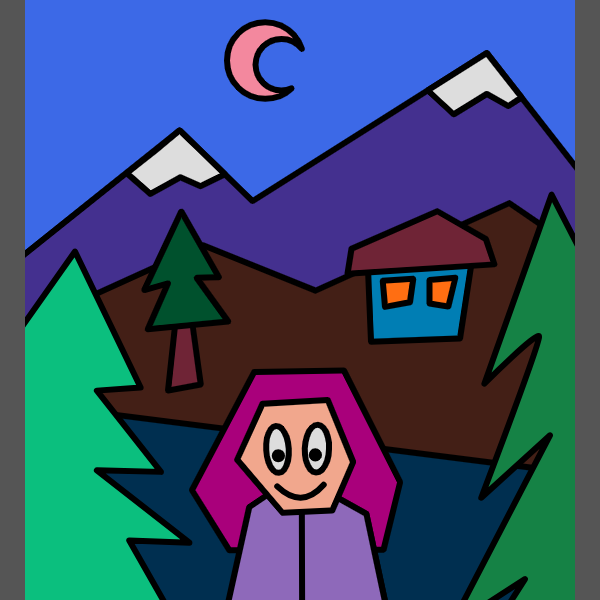
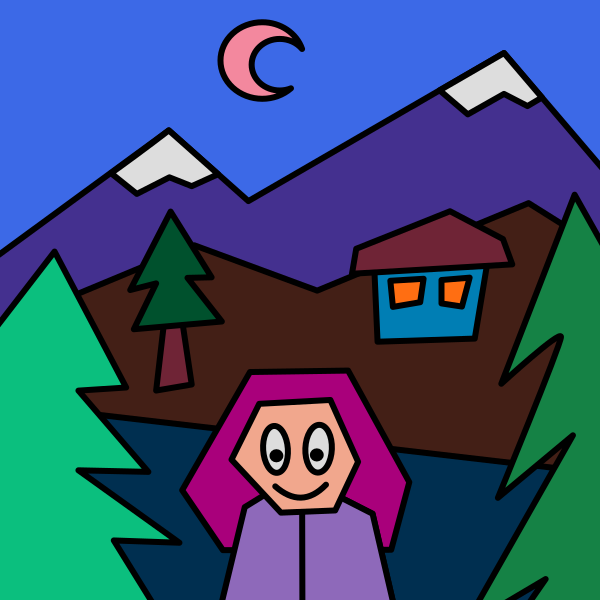
Add files via upload

diff --git a/8.html b/8.html
@@ -25,71 +25,95 @@
 </div>
 
 <div class="svg-container" id="svg">
-    <svg
-    width="1280"
-    height="600"
-    viewBox="0 0 1280 600"
-    version="1.1"
-    id="svg1"
-    xml:space="preserve"
-    xmlns="http://www.w3.org/2000/svg"
-    xmlns:svg="http://www.w3.org/2000/svg"><defs
-      id="defs1" /><g
-      id="layer1"
-      style="stroke-width:5;stroke-dasharray:none"><rect
-        style="display:none;fill:#dddddd;fill-opacity:1;stroke:#000000;stroke-width:5;stroke-linecap:round;stroke-linejoin:round;stroke-dasharray:none;stroke-opacity:1"
-        id="rect2"
-        width="195.04951"
-        height="195.04951"
-        x="-457.52499"
-        y="362.47525" /><rect
-        style="fill-opacity:1;stroke:none;stroke-width:0;stroke-dasharray:none"
-        id="rect1"
-        class="lightgray"
-        width="1280"
-        height="600"
-        x="0"
-        y="0" /><path
-        style="fill-opacity:1;stroke:#000000;stroke-width:2;stroke-linecap:round;stroke-linejoin:round;stroke-dasharray:none;stroke-opacity:1"
-        d="M -10.370863,300 901.87518,82.323121 1290.0276,300 1289.9565,621.23291 -9.9564581,620.45345 Z"
-        id="path1"
-        class="darkgray" /><path
-        id="path14" style="fill:#dddddd;fill-opacity:1;stroke:#000000;stroke-width:2;stroke-linecap:round;stroke-linejoin:round;stroke-dasharray:none;stroke-opacity:1"
-        d="m 901.875,82.322266 -177.20152,42.284084 40.08915,25.78431 58.33498,-15.17411 36.08027,33.04402 54.96384,-26.30008 37.14492,16.24252 7.36431,-17.59246 51.83925,2.62383 z" />
-        <path
-        id="path16"
-        class="whitegray"
-        style="fill-opacity:1;stroke:#000000;stroke-width:2;stroke-linecap:round;stroke-linejoin:round;stroke-dasharray:none"
-        d="m 335.12109,47.210938 a 104.3164,99 0 0 0 -81.37304,37.382812 84.729782,80.402122 0 0 0 -23.02735,-3.048828 84.729782,80.402122 0 0 0 -84.72851,80.402348 84.729782,80.402122 0 0 0 5.08593,26.85937 104.3164,99 0 0 0 -38.5371,76.62109 104.3164,99 0 0 0 104.3164,99 104.3164,99 0 0 0 91.26172,-51.57031 104.3164,99 0 0 0 77.07227,32.49414 104.3164,99 0 0 0 104.3164,-99 104.3164,99 0 0 0 -51.3164,-85.2539 104.3164,99 0 0 0 1.24609,-14.88672 104.3164,99 0 0 0 -104.31641,-99.000002 z" /><path
-        style="fill-opacity:1;stroke:#000000;stroke-width:2;stroke-linecap:round;stroke-linejoin:round;stroke-dasharray:none"
-        d="m 255.82896,453.18102 46.59976,26.57774 107.91852,-35.20974 -62.58697,-18.75128 -13.31463,-80.81316 29.90629,-60.4425 42.06298,-13.43964 -29.59244,-8.49141 -32.75585,7.58096 -21.14913,39.00155 -12.8686,-38.87783 -29.18261,-8.61697 -13.30357,1.5037 23.87261,27.14694 -2.60079,49.52609 -25.61001,-49.09744 -38.87639,-12.94622 -30.62913,1.28523 40.46184,21.33488 21.78236,21.10402 34.28031,64.23599 -4.20555,43.71152 z"
-        id="path15" class="blackgray" /><g
-        id="g12"
-        class="monk paused"
-        ><path
-          id="path18"
-          class="colorize"
-          style="display:inline;fill:#dddddd;fill-opacity:1;stroke:#000000;stroke-width:2;stroke-linecap:round;stroke-linejoin:round;stroke-dasharray:none"
-          d="m 639.48047,372.67188 c -10.89353,-10e-6 -19.77281,10.83992 -20.22656,24.42382 l -5.13282,-0.88867 c 0.6246,5.39401 1.60037,11.51031 7.5625,14.94922 2.17139,5.66408 5.64629,10.54484 9.85157,13.36719 -0.14164,2.91552 -0.36863,5.75297 -0.63868,8.71094 -0.25568,2.65947 -22.39891,4.68257 -32.1582,11.77148 -5.44332,3.95389 -14.8125,59.99805 -14.8125,59.99805 -9.30857,-1.74533 -18.44792,-4.19974 -27.58789,-6.97266 l 0.16797,-6.85742 -12.875,-7.39063 1.63281,6.64649 -13.45703,-2.35547 0.14063,9.06055 c 3.33152,1.60089 6.64434,3.19699 20.50585,7.86914 12.79131,7.39869 24.64899,10.80057 37.32227,13.58984 3.72624,0.82011 7.93642,-0.66241 9.16992,-5.15625 3.82325,-13.9286 8.57742,-30.9054 9.38672,-47.29883 l 5.18359,27.51953 53.50196,-37.89453 c 2.78137,22.68981 8.0275,42.25841 13.02539,58.77344 1.15902,3.82985 4.97321,6.33473 8.87891,5.46484 11.07415,-2.4665 25.67076,-7.4732 36.87304,-15.23633 l 20.02735,-7.39257 v -9.77539 l -12.89063,2.45507 2.02148,-6.1289 -12.73632,6.53515 -0.83399,8.22657 c -9.81436,2.76234 -14.70718,4.97956 -27.0625,6.79492 0,0 -9.46862,-57.21387 -14.61914,-61.07227 -9.13006,-6.83959 -32.28334,-8.20016 -32.71484,-10.99023 -0.26449,-2.62601 -0.26044,-5.59866 -0.13867,-8.52735 4.35738,-2.68554 7.97765,-7.57248 10.25976,-13.31054 5.32324,-3.31395 7.05655,-8.70052 6.98828,-15.05078 l -4.38281,0.7207 c -0.39153,-13.65583 -9.2978,-24.57812 -20.23242,-24.57812 z" /><path
-          id="path6"
-          style="display:inline;fill:none;fill-opacity:1;stroke:#000000;stroke-width:2;stroke-linecap:round;stroke-linejoin:round;stroke-dasharray:none"
-          d="m 631.53516,424.52344 c -0.14164,2.91552 -0.36863,5.75297 -0.63868,8.71094 -0.25568,2.65947 -22.39891,4.68257 -32.1582,11.77148 -5.44332,3.95389 -14.8125,59.99805 -14.8125,59.99805 -9.30857,-1.74533 -18.44792,-4.19974 -27.58789,-6.97266 l 0.16797,-6.85742 -12.875,-7.39063 1.63281,6.64649 -13.45703,-2.35547 0.14063,9.06055 c 3.33152,1.60089 6.64434,3.19699 20.50585,7.86914 12.79131,7.39869 24.64899,10.80057 37.32227,13.58984 3.72624,0.82011 7.93642,-0.66241 9.16992,-5.15625 3.82325,-13.9286 8.57742,-30.9054 9.38672,-47.29883 l 5.18359,27.51953 53.50196,-37.89453 c 2.78137,22.68981 8.0275,42.25841 13.02539,58.77344 1.15902,3.82985 4.97321,6.33473 8.87891,5.46484 11.07415,-2.4665 25.67076,-7.4732 36.87304,-15.23633 l 20.02735,-7.39257 v -9.77539 l -12.89063,2.45507 2.02148,-6.1289 -12.73632,6.53515 -0.83399,8.22657 c -9.81436,2.76234 -14.70718,4.97956 -27.0625,6.79492 0,0 -9.46862,-57.21387 -14.61914,-61.07227 -9.13006,-6.83959 -32.28334,-8.20016 -32.71484,-10.99023 -0.26449,-2.62601 -0.26044,-5.59866 -0.13867,-8.52735 -2.28375,1.40752 -4.76726,2.2168 -7.36719,2.2168 -2.82123,0 -5.50513,-0.94627 -7.94531,-2.58398 z" /><path
-          id="path8"
-          style="display:inline;fill:none;fill-opacity:1;stroke:#000000;stroke-width:2;stroke-linecap:round;stroke-linejoin:round;stroke-dasharray:none"
-          d="m 614.12109,396.20703 c 0.6246,5.39401 1.60037,11.51031 7.5625,14.94922 -1.56338,-4.07809 -2.45312,-8.56043 -2.45312,-12.9707 0,-0.36563 0.0113,-0.72797 0.0234,-1.08985 z m 49.97461,0.32227 -4.38281,0.7207 c 0.009,0.31111 0.0176,0.62169 0.0176,0.93555 0,4.56472 -0.95625,9.20359 -2.62305,13.39453 5.32324,-3.31395 7.05655,-8.70052 6.98828,-15.05078 z" /><path
-          id="path7"
-          style="display:inline;fill:none;fill-opacity:1;stroke:#000000;stroke-width:2;stroke-linecap:round;stroke-linejoin:round"
-          d="m 659.73082,398.18532 c 0,14.09016 -9.06622,28.92239 -20.24998,28.92239 -11.18375,-10e-6 -20.24997,-14.83224 -20.24997,-28.92239 0,-14.09015 9.06622,-25.51247 20.24997,-25.51247 11.18375,0 20.24998,11.42232 20.24998,25.51247 z" /><path
-          id="path4"
-          class="gray"
-          style="display:inline;fill-opacity:1;stroke:none;stroke-width:2;stroke-dasharray:none"
-          d="m 655.67975,431.78175 c -13.39898,22.62054 -25.57468,42.76037 -46.49342,53.47461 3.35201,12.4284 3.21375,23.27981 4.33711,33.92528 -5.96513,-0.90956 -11.30504,-2.01606 -15.91797,-3.06445 -1.86882,2.37358 -4.98529,3.10267 -7.83008,2.47656 -5.45703,-1.20104 -10.76216,-2.53969 -16.05664,-4.23828 -4.85906,2.14389 -9.3,5.84101 -10.98437,10.4668 -3.59129,9.86022 5.49111,18.76482 15.35156,22.35546 37.83976,13.78003 79.49539,14.19797 121.58008,0.17188 9.95521,-3.31793 17.33573,-12.07807 14.01757,-22.0332 -1.44862,-4.34656 -4.69932,-7.81896 -8.72851,-10.07813 -5.63087,2.0784 -11.17425,3.68145 -16.0332,4.76367 -3.56642,0.79433 -7.03241,-1.23909 -8.49415,-4.51172 -6.30613,1.76714 -12.42437,3.03708 -18.33789,3.9336 1.16119,-26.07569 6.41852,-55.00481 18.1926,-79.15089 z" /><path
-          id="path10"
-          style="display:inline;fill:none;fill-opacity:1;stroke:#000000;stroke-width:2;stroke-dasharray:none"
-          d="m 662.08984,519.42383 c 1.16119,-26.07569 6.41852,-55.00481 18.1926,-79.15089 l -24.60269,-8.49119 c -13.39898,22.62054 -25.57468,42.76037 -46.49342,53.47461 3.35201,12.4284 3.21375,23.27981 4.33711,33.92528" /><path
-          id="path9"
-          style="color:#000000;display:inline;fill:none;fill-opacity:1;stroke:#000000;stroke-width:2;stroke-linecap:round;stroke-linejoin:round;stroke-dasharray:none"
-          d="m 573.71875,514.35547 c -4.85906,2.14389 -9.29999,5.84101 -10.98437,10.4668 -3.59129,9.86023 5.4911,18.76481 15.35156,22.35546 37.8398,13.78004 79.49535,14.19798 121.58008,0.17188 9.95522,-3.31793 17.33573,-12.07806 14.01757,-22.0332 -1.44863,-4.34656 -4.69931,-7.81896 -8.72851,-10.07813 -5.63087,2.0784 -11.17424,3.68145 -16.0332,4.76367 -3.56642,0.79433 -7.03241,-1.23909 -8.49415,-4.51172 -35.07459,9.82879 -64.59101,4.77043 -82.82226,0.62696 -1.86882,2.37358 -4.98529,3.10267 -7.83008,2.47656 -5.45704,-1.20104 -10.76215,-2.53969 -16.05664,-4.23828 z" /></g></g></svg>
+<svg
+   width="1280"
+   height="600"
+   viewBox="0 0 1280 600"
+   version="1.1"
+   id="svg1"
+   xml:space="preserve"
+   xmlns="http://www.w3.org/2000/svg"
+   xmlns:svg="http://www.w3.org/2000/svg"><defs
+     id="defs1" /><g
+     id="layer2"
+     style="display:inline"><rect
+       style="fill:#aaaaaa;fill-opacity:1;stroke:none;stroke-width:0;stroke-dasharray:none"
+       id="rect1"
+       class="lightgray"
+       width="1280"
+       height="600"
+       x="0"
+       y="0" /><path
+       id="path24"
+       class="whitegray"
+       style="fill:#cbcbcb;fill-opacity:1;stroke:#000000;stroke-width:2;stroke-linecap:round;stroke-linejoin:round;stroke-dasharray:none"
+       d="m 148.45508,47.011719 c -8.25577,-0.05249 -15.89906,5.107554 -18.27344,18.287109 -8.06773,-4.724494 -15.21153,-5.434754 -19.78125,5.025391 -8.5942,-0.229893 -10.16987,3.50347 -8.24219,9.214843 -4.843174,2.047689 -3.235407,4.094893 -3.624997,6.142579 -6.509286,0.963708 -9.591663,5.799805 -12.199219,11.169921 H 191.16992 c 2.69331,-4.43621 3.2284,-8.677398 -6.26367,-12.007812 12.97699,-11.301501 7.6894,-29.283868 -14.50586,-24.851562 -4.82226,-7.664208 -13.68954,-12.927981 -21.94531,-12.980469 z m 630,0 c -8.25577,-0.05249 -15.90101,5.107554 -18.27539,18.287109 -8.06773,-4.724494 -15.20958,-5.434754 -19.7793,5.025391 -8.5942,-0.229893 -10.16987,3.50347 -8.24219,9.214843 -4.84317,2.047689 -3.23736,4.094893 -3.62695,6.142579 -6.50928,0.963708 -9.58971,5.799805 -12.19727,11.169921 h 104.83594 c 2.69331,-4.43621 3.2284,-8.677398 -6.26367,-12.007812 12.97699,-11.301501 7.6894,-29.283868 -14.50586,-24.851562 -4.82226,-7.664208 -13.68954,-12.927981 -21.94531,-12.980469 z m -434.66602,2.361328 c -18.41265,-0.02675 -32.94344,11.749477 -41.09765,27.611328 -5.9389,-0.615986 -11.93303,-3.047255 -16.48438,7.888672 -22.7629,-1.418213 -28.37131,10.462954 -37.75586,19.724613 -20.64561,-16.413826 -31.74733,-4.991103 -40.41601,11.26953 -10.87721,-3.4957 -21.90742,-3.36476 -21.80274,16.90625 h 207.39453 c -0.72173,-9.14699 -2.62172,-17.62908 -13.82617,-20.85156 17.99471,-24.236704 4.99997,-47.828408 -12.76367,-56.634771 -8.24492,-4.087439 -16.04309,-5.903594 -23.24805,-5.914062 z m 629.99805,0 c -18.41265,-0.02675 -32.94149,11.749477 -41.0957,27.611328 -5.9389,-0.615986 -11.93303,-3.047255 -16.48438,7.888672 -22.7629,-1.418213 -28.37326,10.462954 -37.75781,19.724613 -20.64561,-16.413826 -31.74538,-4.991103 -40.41406,11.26953 -10.87721,-3.4957 -21.90937,-3.36476 -21.80469,16.90625 H 1023.627 c -0.7218,-9.14699 -2.6218,-17.62908 -13.8262,-20.85156 17.9947,-24.236704 4.9999,-47.828408 -12.76369,-56.634771 -8.24492,-4.087439 -16.04505,-5.903594 -23.25,-5.914062 z" /><path
+       id="path11"
+       class="darkgray"
+       style="fill:#555555;fill-opacity:1;stroke:#000000;stroke-width:2;stroke-linecap:round;stroke-linejoin:round;stroke-dasharray:none"
+       d="M 494.62695,113.87891 -5.9160156,346.50586 -8.8046875,621.7793 638.24023,617.42969 l -0.0449,4.34961 677.66597,-4.55469 4.5547,-353.02539 -178.789,-150.32031 -469.08401,218.00586 0.87305,-67.68555 z" /><path
+       id="path12"
+       style="display:inline;fill:#dddddd;fill-opacity:1;stroke:#000000;stroke-width:2;stroke-linecap:round;stroke-linejoin:round;stroke-dasharray:none"
+       d="m 494.62695,113.87891 -70.10351,32.58007 19.90039,29.89649 43.5,-23.94531 29.11523,20.60546 10.97461,-10.83398 16.1211,4.88672 4.31445,-7.9375 z m 647.00005,0 -70.1036,32.58007 19.9004,29.89649 43.5,-23.94531 29.1153,20.60546 10.9746,-10.83398 16.1211,4.88672 4.3144,-7.9375 z" /><path
+       id="path5"
+       class="darkergray"
+       style="fill:#343434;fill-opacity:1;stroke:#000000;stroke-width:2;stroke-linecap:round;stroke-linejoin:round;stroke-dasharray:none"
+       d="M 530.25391,395.43555 -4.0136719,461.83984 -4.3320312,609.33398 630.375,611.72656 630.5918,431.04883 Z m 659.99999,0 -534.26757,66.40429 -0.31836,147.49414 634.70703,2.39258 0.2168,-180.67773 z" /><path
+       id="path16"
+       class="lightergray"
+       style="fill:#dddddd;fill-opacity:1;stroke:#000000;stroke-width:2;stroke-linecap:round;stroke-linejoin:round;stroke-dasharray:none"
+       d="m 211.31836,164.50586 a 85.660639,81.307021 0 0 0 -66.82031,30.70312 69.576857,66.032899 0 0 0 -18.91016,-2.50586 69.576857,66.032899 0 0 0 -69.574218,66.03321 69.576857,66.032899 0 0 0 4.175781,22.06055 85.660639,81.307021 0 0 0 -31.646484,62.92773 85.660639,81.307021 0 0 0 85.662111,81.30664 85.660639,81.307021 0 0 0 74.93945,-42.35352 85.660639,81.307021 0 0 0 63.28906,26.68555 85.660639,81.307021 0 0 0 85.66016,-81.30664 85.660639,81.307021 0 0 0 -42.13867,-70.01758 85.660639,81.307021 0 0 0 1.02344,-12.22656 85.660639,81.307021 0 0 0 -85.66016,-81.30664 z m 671.99805,0 a 85.660639,81.307021 0 0 0 -66.82032,30.70312 69.576857,66.032899 0 0 0 -18.9082,-2.50586 69.576857,66.032899 0 0 0 -69.57617,66.03321 69.576857,66.032899 0 0 0 4.17578,22.06055 85.660639,81.307021 0 0 0 -31.64453,62.92773 85.660639,81.307021 0 0 0 85.66015,81.30664 85.660639,81.307021 0 0 0 74.94141,-42.35352 85.660639,81.307021 0 0 0 63.28906,26.68555 85.660639,81.307021 0 0 0 85.66021,-81.30664 85.660639,81.307021 0 0 0 -42.13872,-70.01758 85.660639,81.307021 0 0 0 1.02344,-12.22656 85.660639,81.307021 0 0 0 -85.66211,-81.30664 z" /><path
+       id="path15"
+       class="blackgray"
+       style="fill:#222222;fill-opacity:1;stroke:#000000;stroke-width:2;stroke-linecap:round;stroke-linejoin:round;stroke-dasharray:none"
+       d="m 162.76562,330.66211 -10.92382,1.10156 23.60351,28.83594 -2.13672,36.31836 -21.02929,-36.00391 -31.92383,-9.49218 -25.150392,0.9414 33.224612,15.64649 17.88672,15.47461 28.15039,47.10546 -3.45313,32.05469 -24.80664,17.36328 38.26563,19.49024 88.61914,-25.82032 -51.39453,-13.75 -10.9336,-59.26171 24.5586,-44.32422 34.53906,-9.85547 -24.29883,-6.22656 -26.89844,5.55859 -17.36718,28.60156 -10.56641,-32.08203 z m 672,0 -10.92578,1.10156 23.60352,28.83594 -2.13477,36.31836 -21.02929,-36.00391 -31.92383,-9.49218 -25.15235,0.9414 33.22657,15.64649 17.88672,15.47461 28.14843,47.10546 -3.45312,32.05469 -24.80664,17.36328 38.26562,19.49024 88.61914,-25.82032 -51.39453,-13.75 -10.93359,-59.26171 24.55859,-44.32422 34.54102,-9.85547 -24.30078,-6.22656 -26.89844,5.55859 -17.36523,28.60156 -10.56836,-32.08203 z" /><g
+       id="g47"
+       class="monk paused"
+       style="display:inline"><path
+         id="path44"
+         class="colorize"
+         style="display:inline;fill:#dddddd;fill-opacity:1;stroke:#000000;stroke-width:2;stroke-linecap:round;stroke-linejoin:round;stroke-dasharray:none"
+         d="m 464.76758,389.66797 c -10.89349,0 -19.77276,10.83799 -20.22656,24.42187 l -5.13282,-0.88867 c 0.6246,5.39401 1.60031,11.51031 7.5625,14.94922 2.1714,5.66407 5.64627,10.54484 9.85157,13.36719 v 0.002 c -0.1416,2.91483 -0.36878,5.75168 -0.63868,8.70899 -0.2557,2.65945 -22.39901,4.68259 -32.1582,11.77148 -5.44339,3.95389 -14.8125,59.99805 -14.8125,59.99805 -9.30859,-1.74533 -18.448,-4.19974 -27.58789,-6.97266 l 0.16797,-6.85742 -12.875,-7.39063 1.63281,6.64649 -13.45703,-2.35547 0.14063,9.06055 c 3.33159,1.60087 6.64437,3.19699 20.50585,7.86914 12.79129,7.39867 24.64898,10.80057 37.32227,13.58984 3.7262,0.82011 7.93642,-0.66241 9.16992,-5.15625 3.8232,-13.92858 8.57742,-30.90542 9.38672,-47.29883 l 5.18359,27.51953 53.50196,-37.89453 c 2.78129,22.68977 8.02759,42.25845 13.02539,58.77344 1.1591,3.82985 4.97311,6.33473 8.8789,5.46484 11.07409,-2.46648 25.67076,-7.47321 36.87305,-15.23632 l 20.02735,-7.39258 v -9.77539 l -12.89063,2.45508 2.02148,-6.12891 -12.73632,6.53515 -0.83399,8.22657 c -9.81439,2.76232 -14.70721,4.97956 -27.0625,6.79492 0,0 -9.46854,-57.21387 -14.61914,-61.07227 -9.12999,-6.83957 -32.28334,-8.20016 -32.71484,-10.99023 -0.2645,-2.62601 -0.26037,-5.59867 -0.13867,-8.52734 4.35709,-2.68561 7.97776,-7.57272 10.25976,-13.31055 5.3233,-3.31395 7.05658,-8.70054 6.98828,-15.05078 L 485,414.24414 c -0.3915,-13.65582 -9.29773,-24.57617 -20.23242,-24.57617 z m 680.00002,0 c -10.8935,0 -19.7728,10.83799 -20.2266,24.42187 l -5.1328,-0.88867 c 0.6246,5.39401 1.6003,11.51031 7.5625,14.94922 2.1714,5.66407 5.6463,10.54484 9.8516,13.36719 v 0.002 c -0.1416,2.91483 -0.3688,5.75168 -0.6387,8.70899 -0.2557,2.65945 -22.399,4.68259 -32.1582,11.77148 -5.4434,3.95389 -14.8125,59.99805 -14.8125,59.99805 -9.3086,-1.74533 -18.448,-4.19974 -27.5879,-6.97266 l 0.168,-6.85742 -12.875,-7.39063 1.6328,6.64649 -13.457,-2.35547 0.1406,9.06055 c 3.3316,1.60087 6.6443,3.19699 20.5058,7.86914 12.7913,7.39867 24.649,10.80057 37.3223,13.58984 3.7262,0.82011 7.9364,-0.66241 9.1699,-5.15625 3.8232,-13.92858 8.5774,-30.90542 9.3867,-47.29883 l 5.1836,27.51953 53.502,-37.89453 c 2.7813,22.68977 8.0276,42.25845 13.0254,58.77344 1.1591,3.82985 4.9731,6.33473 8.8789,5.46484 11.0741,-2.46648 25.6707,-7.47321 36.873,-15.23632 l 20.0274,-7.39258 v -9.77539 l -12.8906,2.45508 2.0214,-6.12891 -12.7363,6.53515 -0.834,8.22657 c -9.8144,2.76232 -14.7072,4.97956 -27.0625,6.79492 0,0 -9.4685,-57.21387 -14.6191,-61.07227 -9.13,-6.83957 -32.2834,-8.20016 -32.7149,-10.99023 -0.2645,-2.62601 -0.2603,-5.59867 -0.1386,-8.52734 4.3571,-2.68561 7.9777,-7.57272 10.2597,-13.31055 5.3233,-3.31395 7.0566,-8.70054 6.9883,-15.05078 l -4.3828,0.7207 c -0.3915,-13.65582 -9.2977,-24.57617 -20.2324,-24.57617 z" /><path
+         id="path30"
+         style="display:inline;fill:none;fill-opacity:1;stroke:#000000;stroke-width:2;stroke-linecap:round;stroke-linejoin:round;stroke-dasharray:none"
+         d="m 1165.0181,415.17959 c 0,14.09016 -9.0662,28.92239 -20.25,28.92239 -11.1837,-1e-5 -20.25,-14.83224 -20.25,-28.92239 0,-14.09015 9.0663,-25.51247 20.25,-25.51247 11.1838,0 20.25,11.42232 20.25,25.51247 z" /><path
+         id="path29"
+         style="display:inline;fill:none;fill-opacity:1;stroke:#000000;stroke-width:2;stroke-linecap:round;stroke-linejoin:round;stroke-dasharray:none"
+         d="m 1119.4084,413.2013 c 0.6246,5.39401 1.6003,11.51031 7.5625,14.94922 -1.5634,-4.07809 -2.4532,-8.56043 -2.4532,-12.9707 0,-0.36563 0.011,-0.72797 0.023,-1.08985 z m 49.9746,0.32227 -4.3828,0.7207 c 0.01,0.31111 0.018,0.62169 0.018,0.93555 0,4.56472 -0.9563,9.20359 -2.6231,13.39453 5.3233,-3.31395 7.0566,-8.70052 6.9883,-15.05078 z" /><path
+         id="path28"
+         style="display:inline;fill:none;fill-opacity:1;stroke:#000000;stroke-width:2;stroke-linecap:round;stroke-linejoin:round;stroke-dasharray:none"
+         d="m 1136.8224,441.51771 c -0.1416,2.91552 -0.3686,5.75297 -0.6386,8.71094 -0.2557,2.65947 -22.399,4.68257 -32.1582,11.77148 -5.4434,3.95389 -14.8125,59.99805 -14.8125,59.99805 -9.3086,-1.74533 -18.448,-4.19974 -27.5879,-6.97266 l 0.1679,-6.85742 -12.875,-7.39063 1.6328,6.64649 -13.457,-2.35547 0.1406,9.06055 c 3.3316,1.60089 6.6444,3.19699 20.5059,7.86914 12.7913,7.39869 24.649,10.80057 37.3223,13.58984 3.7262,0.82011 7.9364,-0.66241 9.1699,-5.15625 3.8232,-13.9286 8.5774,-30.9054 9.3867,-47.29883 l 5.1836,27.51953 53.502,-37.89453 c 2.7813,22.68981 8.0275,42.25841 13.0253,58.77344 1.1591,3.82985 4.9732,6.33473 8.879,5.46484 11.0741,-2.4665 25.6707,-7.4732 36.873,-15.23633 l 20.0273,-7.39257 v -9.77539 l -12.8906,2.45507 2.0215,-6.1289 -12.7363,6.53515 -0.834,8.22657 c -9.8144,2.76234 -14.7072,4.97956 -27.0625,6.79492 0,0 -9.4686,-57.21387 -14.6192,-61.07227 -9.13,-6.83959 -32.2833,-8.20016 -32.7148,-10.99023 -0.2645,-2.62601 -0.2604,-5.59866 -0.1387,-8.52735 -2.2837,1.40752 -4.7672,2.2168 -7.3672,2.2168 -2.8212,0 -5.5051,-0.94627 -7.9453,-2.58398 z" /><path
+         id="path7"
+         style="display:inline;fill:none;fill-opacity:1;stroke:#000000;stroke-width:2;stroke-linecap:round;stroke-linejoin:round;stroke-dasharray:none"
+         d="m 485.01818,415.17959 c 0,14.09016 -9.06622,28.92239 -20.24998,28.92239 -11.18375,-1e-5 -20.24997,-14.83224 -20.24997,-28.92239 0,-14.09015 9.06622,-25.51247 20.24997,-25.51247 11.18375,0 20.24998,11.42232 20.24998,25.51247 z" /><path
+         id="path8"
+         style="display:inline;fill:none;fill-opacity:1;stroke:#000000;stroke-width:2;stroke-linecap:round;stroke-linejoin:round;stroke-dasharray:none"
+         d="m 439.40845,413.2013 c 0.6246,5.39401 1.60037,11.51031 7.5625,14.94922 -1.56338,-4.07809 -2.45312,-8.56043 -2.45312,-12.9707 0,-0.36563 0.0113,-0.72797 0.0234,-1.08985 z m 49.97461,0.32227 -4.38281,0.7207 c 0.009,0.31111 0.0176,0.62169 0.0176,0.93555 0,4.56472 -0.95625,9.20359 -2.62305,13.39453 5.32324,-3.31395 7.05655,-8.70052 6.98828,-15.05078 z" /><path
+         id="path6"
+         style="display:inline;fill:none;fill-opacity:1;stroke:#000000;stroke-width:2;stroke-linecap:round;stroke-linejoin:round;stroke-dasharray:none"
+         d="m 456.82252,441.51771 c -0.14164,2.91552 -0.36863,5.75297 -0.63868,8.71094 -0.25568,2.65947 -22.39891,4.68257 -32.1582,11.77148 -5.44332,3.95389 -14.8125,59.99805 -14.8125,59.99805 -9.30857,-1.74533 -18.44792,-4.19974 -27.58789,-6.97266 l 0.16797,-6.85742 -12.875,-7.39063 1.63281,6.64649 -13.45703,-2.35547 0.14063,9.06055 c 3.33152,1.60089 6.64434,3.19699 20.50585,7.86914 12.79131,7.39869 24.64899,10.80057 37.32227,13.58984 3.72624,0.82011 7.93642,-0.66241 9.16992,-5.15625 3.82325,-13.9286 8.57742,-30.9054 9.38672,-47.29883 l 5.18359,27.51953 53.50196,-37.89453 c 2.78137,22.68981 8.0275,42.25841 13.02539,58.77344 1.15902,3.82985 4.97321,6.33473 8.87891,5.46484 11.07415,-2.4665 25.67076,-7.4732 36.87304,-15.23633 l 20.02735,-7.39257 v -9.77539 l -12.89063,2.45507 2.02148,-6.1289 -12.73632,6.53515 -0.83399,8.22657 c -9.81436,2.76234 -14.70718,4.97956 -27.0625,6.79492 0,0 -9.46862,-57.21387 -14.61914,-61.07227 -9.13006,-6.83959 -32.28334,-8.20016 -32.71484,-10.99023 -0.26449,-2.62601 -0.26044,-5.59866 -0.13867,-8.52735 -2.28375,1.40752 -4.76726,2.2168 -7.36719,2.2168 -2.82123,0 -5.50513,-0.94627 -7.94531,-2.58398 z" /><path
+         id="path47"
+         class="gray"
+         style="display:inline;fill:#808080;fill-opacity:1;stroke:none;stroke-width:2;stroke-dasharray:none"
+         d="m 480.9668,448.77539 c -13.39896,22.6205 -25.57349,42.76039 -46.49219,53.47461 2.94516,10.91991 3.19712,23.70646 3.97656,33.87109 -5.82077,-0.89898 -11.03814,-1.98238 -15.55859,-3.00976 -1.86882,2.37358 -4.98529,3.10267 -7.83008,2.47656 -5.45702,-1.20104 -10.76217,-2.53969 -16.05664,-4.23828 -4.85906,2.14389 -9.3,5.84101 -10.98438,10.4668 -3.59127,9.86021 5.49113,18.76482 15.35157,22.35547 37.83972,13.78 79.49544,14.19795 121.58007,0.17187 9.95522,-3.31793 17.33574,-12.07808 14.01758,-22.0332 -1.44863,-4.34656 -4.69933,-7.81896 -8.72851,-10.07813 -5.63087,2.0784 -11.17425,3.68145 -16.03321,4.76367 -3.5664,0.79433 -7.0324,-1.2391 -8.49414,-4.51171 -6.22984,1.74575 -12.27403,3.00344 -18.12109,3.89843 1.50314,-25.37366 6.80059,-56.19575 17.97656,-79.11523 z m 680,0 c -13.3989,22.6205 -25.5735,42.76039 -46.4922,53.47461 2.9451,10.91991 3.1972,23.70646 3.9766,33.87109 -5.8208,-0.89898 -11.0381,-1.98238 -15.5586,-3.00976 -1.8688,2.37358 -4.9853,3.10267 -7.8301,2.47656 -5.457,-1.20104 -10.7621,-2.53969 -16.0566,-4.23828 -4.8591,2.14389 -9.3,5.84101 -10.9844,10.4668 -3.5913,9.86021 5.4911,18.76482 15.3515,22.35547 37.8398,13.78 79.4955,14.19795 121.5801,0.17187 9.9552,-3.31793 17.3358,-12.07808 14.0176,-22.0332 -1.4486,-4.34656 -4.6993,-7.81896 -8.7285,-10.07813 -5.6308,2.0784 -11.1742,3.68145 -16.0332,4.76367 -3.5664,0.79433 -7.0325,-1.2391 -8.4942,-4.51171 -6.2299,1.74575 -12.274,3.00344 -18.121,3.89843 1.503,-25.37366 6.8005,-56.19575 17.9765,-79.11523 z" /><path
+         id="path32"
+         style="display:inline;fill:none;fill-opacity:1;stroke:#000000;stroke-width:2;stroke-dasharray:none"
+         d="m 1167.3771,536.4181 c 1.1612,-26.07569 6.4185,-55.00481 18.1926,-79.15089 l -24.6027,-8.49119 c -13.399,22.62054 -25.5747,42.76037 -46.4934,53.47461 3.352,12.4284 3.2138,23.27981 4.3371,33.92528" /><path
+         id="path10"
+         style="display:inline;fill:none;fill-opacity:1;stroke:#000000;stroke-width:2;stroke-dasharray:none"
+         d="m 487.3772,536.4181 c 1.16119,-26.07569 6.41852,-55.00481 18.1926,-79.15089 l -24.60269,-8.49119 c -13.39898,22.62054 -25.57468,42.76037 -46.49342,53.47461 3.35201,12.4284 3.21375,23.27981 4.33711,33.92528" /><path
+         id="path33"
+         style="color:#000000;display:inline;fill:none;fill-opacity:1;stroke:#000000;stroke-width:2;stroke-linecap:round;stroke-linejoin:round;stroke-dasharray:none"
+         d="m 1079.006,531.34974 c -4.859,2.14389 -9.3,5.84101 -10.9843,10.4668 -3.5913,9.86023 5.491,18.76481 15.3515,22.35546 37.8398,13.78004 79.4954,14.19798 121.5801,0.17188 9.9552,-3.31793 17.3357,-12.07806 14.0176,-22.0332 -1.4487,-4.34656 -4.6993,-7.81896 -8.7286,-10.07813 -5.6308,2.0784 -11.1742,3.68145 -16.0331,4.76367 -3.5665,0.79433 -7.0325,-1.23909 -8.4942,-4.51172 -35.0746,9.82879 -64.591,4.77043 -82.8223,0.62696 -1.8688,2.37358 -4.9852,3.10267 -7.83,2.47656 -5.4571,-1.20104 -10.7622,-2.53969 -16.0567,-4.23828 z" /><path
+         id="path9"
+         style="color:#000000;display:inline;fill:none;fill-opacity:1;stroke:#000000;stroke-width:2;stroke-linecap:round;stroke-linejoin:round;stroke-dasharray:none"
+         d="m 399.00611,531.34974 c -4.85906,2.14389 -9.29999,5.84101 -10.98437,10.4668 -3.59129,9.86023 5.4911,18.76481 15.35156,22.35546 37.8398,13.78004 79.49535,14.19798 121.58008,0.17188 9.95522,-3.31793 17.33573,-12.07806 14.01757,-22.0332 -1.44863,-4.34656 -4.69931,-7.81896 -8.72851,-10.07813 -5.63087,2.0784 -11.17424,3.68145 -16.0332,4.76367 -3.56642,0.79433 -7.03241,-1.23909 -8.49415,-4.51172 -35.07459,9.82879 -64.59101,4.77043 -82.82226,0.62696 -1.86882,2.37358 -4.98529,3.10267 -7.83008,2.47656 -5.45704,-1.20104 -10.76215,-2.53969 -16.05664,-4.23828 z" /></g><rect
+       style="display:inline;fill:#222222;fill-opacity:1;stroke-width:0.569441;stroke-dasharray:none"
+       id="rect3"
+       width="80"
+       height="600"
+       x="600"
+       y="0" /></g></svg>
 </div>
 
 <div class="menu-container" id="colors">

diff --git a/monk.js b/monk.js
@@ -41,52 +41,48 @@ btnF.addEventListener('click', () => {
 const monk = document.querySelector('.monk')
 const colorize = document.querySelector('.colorize')
 const whitegray = document.querySelector('.whitegray')
+const lightergray = document.querySelector('.lightergray')
 const lightgray = document.querySelector('.lightgray')
 const gray = document.querySelector('.gray')
 const darkgray = document.querySelector('.darkgray')  
+const darkergray = document.querySelector('.darkergray')  
 const blackgray = document.querySelector('.blackgray')
 
-// function standardWorld(){
-//     whitegray.style.fill = '#FFB6C1';
-//     lightgray.style.fill = '#B6D0E2';
-//     gray.style.fill = 'orange';
-//     darkgray.style.fill = '#500000';
-//     blackgray.style.fill = '#023020';
-// };
-
 function brightenWorld(){
-    whitegray.style.fill = "#" + Math.floor(Math.random() * 256).toString(16) + Math.floor(Math.random() * 256).toString(16) + Math.floor(Math.random() * 256).toString(16);
-    lightgray.style.fill = "#" + Math.floor(Math.random() * 256).toString(16) + Math.floor(Math.random() * 256).toString(16) + Math.floor(Math.random() * 256).toString(16);
-    gray.style.fill = "#" + Math.floor(Math.random() * 256).toString(16) + Math.floor(Math.random() * 256).toString(16) + Math.floor(Math.random() * 256).toString(16);
-    darkgray.style.fill = "#" + Math.floor(Math.random() * 256).toString(16) + Math.floor(Math.random() * 256).toString(16) + Math.floor(Math.random() * 256).toString(16);
-    blackgray.style.fill = "#" + Math.floor(Math.random() * 256).toString(16) + Math.floor(Math.random() * 256).toString(16) + Math.floor(Math.random() * 256).toString(16);
+    whitegray.style.fill = "#" + Math.floor(Math.random() * 256).toString(16) + Math.floor(Math.random() * 256).toString(16) + Math.floor(Math.random() * 256).toString(16) + 'ff';
+    lightergray.style.fill = "#" + Math.floor(Math.random() * 256).toString(16) + Math.floor(Math.random() * 256).toString(16) + Math.floor(Math.random() * 256).toString(16) + 'ff';
+    lightgray.style.fill = "#" + Math.floor(Math.random() * 256).toString(16) + Math.floor(Math.random() * 256).toString(16) + Math.floor(Math.random() * 256).toString(16) + 'ff';
+    gray.style.fill = "#" + Math.floor(Math.random() * 256).toString(16) + Math.floor(Math.random() * 256).toString(16) + Math.floor(Math.random() * 256).toString(16) + 'ff';
+    darkgray.style.fill = "#" + Math.floor(Math.random() * 256).toString(16) + Math.floor(Math.random() * 256).toString(16) + Math.floor(Math.random() * 256).toString(16) + 'ff';
+    darkergray.style.fill = "#" + Math.floor(Math.random() * 256).toString(16) + Math.floor(Math.random() * 256).toString(16) + Math.floor(Math.random() * 256).toString(16) + 'ff';
+    blackgray.style.fill = "#" + Math.floor(Math.random() * 256).toString(16) + Math.floor(Math.random() * 256).toString(16) + Math.floor(Math.random() * 256).toString(16) + 'ff';
 };
-
-// function darkenWorld(){
-//     whitegray.style.fill = '#dddddd';
-//     lightgray.style.fill = '#aaaaaa';
-//     gray.style.fill = '#808080';
-//     darkgray.style.fill = '#555555';
-//     blackgray.style.fill = '#222222';
-// };
 
 function colorizeMonk(){
-    colorize.style.fill = "#ffc3aa";
+    colorize.style.fill = "#ffc3aaff";
+    gray.style.fill = "#ffa500ff";
+    
 }
 
-function transitionSpeed(n){
-    monk.style.transitionDuration = n + 's';
-    whitegray.style.transitionDuration = n + 's';
-    lightgray.style.transitionDuration = n + 's';
-    gray.style.transitionDuration = n + 's';
-    darkgray.style.transitionDuration = n + 's';
-    blackgray.style.transitionDuration = n + 's';
-};
+// function transitionSpeed(n){
+//     monk.style.transitionDuration = n + 's';
+//     colorize.style.transitionDuration = n + 's';
+//     whitegray.style.transitionDuration = n + 's';
+//     lightgray.style.transitionDuration = n + 's';
+//     gray.style.transitionDuration = n + 's';
+//     darkgray.style.transitionDuration = n + 's';
+//     blackgray.style.transitionDuration = n + 's';
+// };
 
 monk.addEventListener('click', function() {
-    transitionSpeed(3);
     brightenWorld();
 });
 
-monk.addEventListener('mouseenter', function() {monk.classList.remove('paused'); colorizeMonk()});
-// monk.addEventListener('mouseleave', function() {monk.classList.add('paused'); transitionSpeed(1); darkenWorld();});
+let executed = false;
+monk.addEventListener('mouseenter', function() {
+    if (!executed) {
+        monk.classList.remove('paused');
+        colorizeMonk();
+        executed = true;
+    }
+});

diff --git a/2.html b/2.html
@@ -113,11 +113,11 @@
        style="fill:#dddddd;fill-opacity:1;stroke:#000000;stroke-width:1.5875;stroke-linecap:round;stroke-linejoin:round;stroke-dasharray:none"
        d="m 80.097434,105.82196 -17.247525,1.02319 -6.723104,14.76241 11.985314,14.0317 13.154753,-0.58446 5.554182,-12.86226 z m 171.979166,0 -17.24753,1.02319 -6.7231,14.76241 11.98531,14.0317 13.15475,-0.58446 5.55419,-12.86226 z" /><path
        id="path9370"
-       style="fill:#ffffff;fill-opacity:1;stroke:#000000;stroke-width:1.5875;stroke-linecap:round;stroke-linejoin:round;stroke-dasharray:none"
+       style="fill:#dddddd;fill-opacity:1;stroke:#000000;stroke-width:1.5875;stroke-linecap:round;stroke-linejoin:round;stroke-dasharray:none"
        d="m 59.489177,116.51108 a 2.9963417,6.2119284 0 0 0 -2.996718,6.21179 2.9963417,6.2119284 0 0 0 2.99682,6.21172 2.9963417,6.2119284 0 0 0 2.996202,-6.21182 2.9963417,6.2119284 0 0 0 -2.996304,-6.21169 z m 171.664853,10.39277 a 2.9963417,6.2119284 0 0 0 -2.99672,6.21178 2.9963417,6.2119284 0 0 0 2.99682,6.21173 2.9963417,6.2119284 0 0 0 2.99621,-6.21182 2.9963417,6.2119284 0 0 0 -2.99631,-6.21169 z"
        transform="rotate(-3.4645175)" /><path
        id="path9372"
-       style="fill:#ffffff;fill-opacity:1;stroke:#000000;stroke-width:1.5875;stroke-linecap:round;stroke-linejoin:round;stroke-dasharray:none"
+       style="fill:#dddddd;fill-opacity:1;stroke:#000000;stroke-width:1.5875;stroke-linecap:round;stroke-linejoin:round;stroke-dasharray:none"
        d="m 81.508218,109.67948 a 3.2154751,6.321692 0 0 0 -3.215516,6.32134 3.2154751,6.321692 0 0 0 3.215287,6.32189 3.2154751,6.321692 0 0 0 3.215498,-6.32185 3.2154751,6.321692 0 0 0 -3.215269,-6.32138 z m 171.866052,-5.9002 a 3.2154751,6.321692 0 0 0 -3.21552,6.32134 3.2154751,6.321692 0 0 0 3.21529,6.3219 3.2154751,6.321692 0 0 0 3.2155,-6.32186 3.2154751,6.321692 0 0 0 -3.21527,-6.32138 z"
        transform="matrix(0.99941132,0.03430757,-0.03631777,0.99934029,0,0)" /><path
        id="path9376"

diff --git a/style.css b/style.css
@@ -190,7 +190,6 @@ button {
 .monk {
     cursor: pointer;
     animation: float ease-in-out 7s infinite;
-
 }
 
 .paused {
@@ -203,26 +202,36 @@ animation-play-state: paused;
 }
 
 .whitegray {
-    transition-duration: 1s;
-    fill: #dddddd;
+    transition-duration: 3s;
+    /* fill: #dddddd; */
+}
+
+.lightergray {
+    transition-duration: 3s;
+    /* fill: #cbcbcb; */
 }
 
 .lightgray {
-    transition-duration: 1s;
-    fill: #aaaaaa;
+    transition-duration: 3s;
+    /* fill: #aaaaaa; */
 }
 
 .gray {
-    transition-duration: 1s;
-    fill: #808080;
+    transition-duration: 2s;
+    /* fill: #808080; */
 }
 
 .darkgray {
-    transition-duration: 1s;
-    fill: #555555;
+    transition-duration: 3s;
+    /* fill: #555555; */
+}
+
+.darkergray {
+    transition-duration: 3s;
+    /* fill: #343434; */
 }
 
 .blackgray {
-    transition-duration: 1s;
-    fill: #222222;
+    transition-duration: 3s;
+    /* fill: #222222; */
 }

diff --git a/index.html b/index.html
@@ -57,8 +57,8 @@
     <a href="7.html">
       <img src="images/7.png" alt="Yemek Vakti" title="Yemek Vakti" class="gallery-item">
     </a>
-    <a href="1.html">
-      <img src="images/1.png" alt="" title="" class="gallery-item">
+    <a href="8.html">
+      <img src="images/8.png" alt="Yalnız Keşiş" title="Yalnız Keşiş" class="gallery-item">
     </a>
  </div>
 
